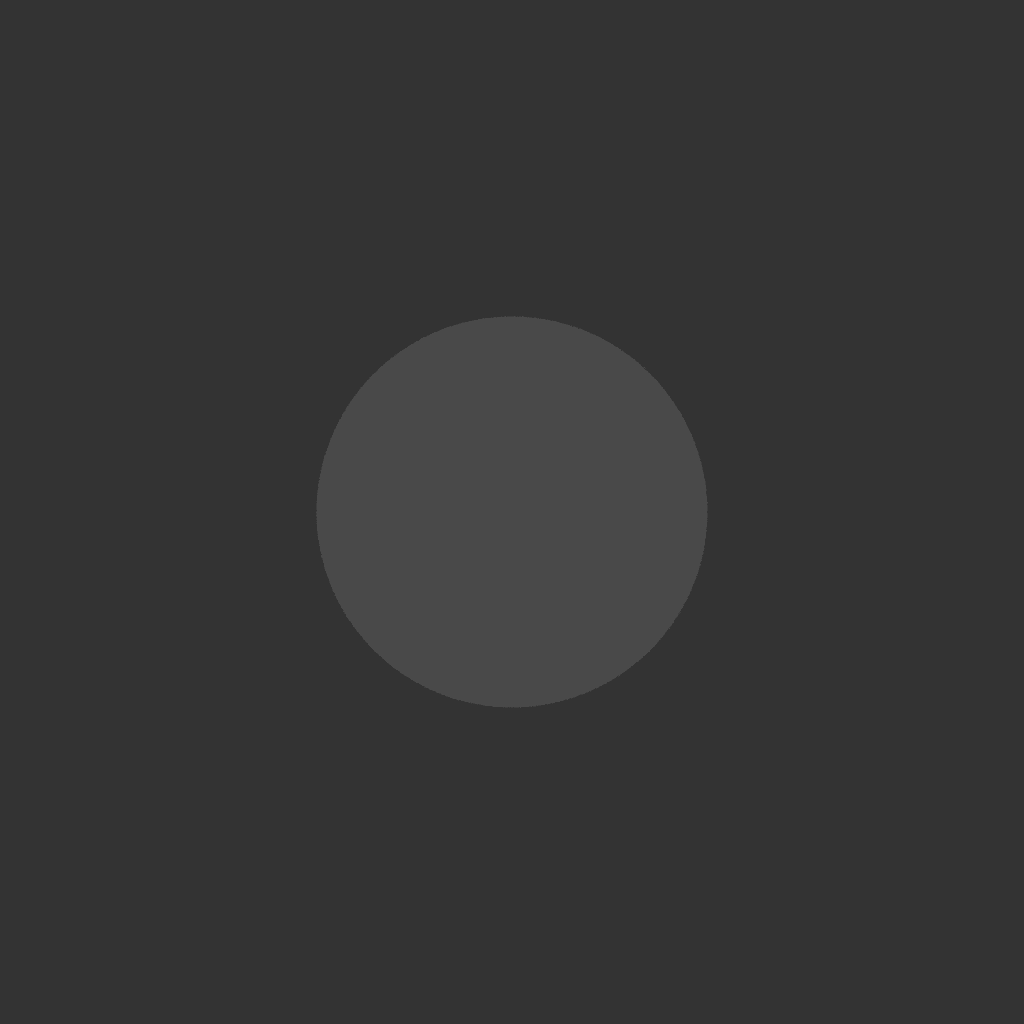
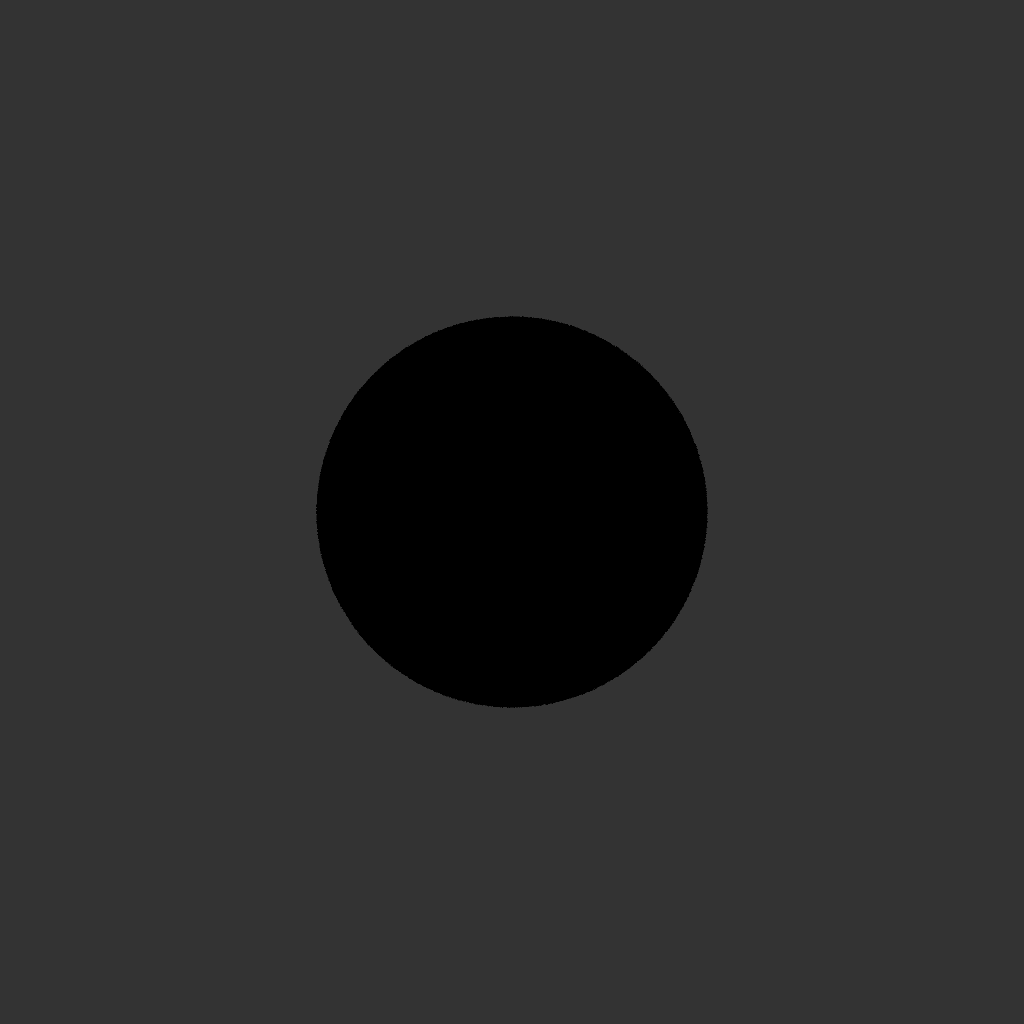
WIP, need tangent space

Changed region(s): [[0.3125, 0.3125, 0.6875, 0.6875]]

diff --git a/src/integrator.rs b/src/integrator.rs
@@ -18,7 +18,7 @@ impl Integrator for PathTracingIntegrator {
     fn color(&self, r: Ray) -> RGBColor {
         let mut ray = r;
         let mut color: RGBColor = RGBColor::ZERO;
-        let mut beta = Vec3::new(1.0, 1.0, 1.0);
+        let mut beta = RGBColor::new(1.0, 1.0, 1.0);
         for _ in 0..self.max_bounces {
             match (self.world.hit(ray, 0.0, INFINITY)) {
                 Some(hit) => {
@@ -35,9 +35,10 @@ impl Integrator for PathTracingIntegrator {
                     let cos_i = ray.direction.normalized() * hit.normal.normalized();
                     let material = &self.world.materials[id as usize];
                     let bounce = material.generate(Sample2D::new_random_sample(), ray.direction);
-                    let emission = material.emission(ray.direction, bounce);
+                    let emission: RGBColor = material.emission(ray.direction, bounce);
                     let pdf = material.value(ray.direction, bounce);
-                    color += beta * (emission + material.f(ray.direction, bounce));
+                    color += beta * emission;
+                    beta *= material.f(ray.direction, bounce) * cos_i / pdf;
                     ray = Ray::new(hit.point, bounce);
                 }
                 None => {

diff --git a/src/math/color.rs b/src/math/color.rs
@@ -52,3 +52,24 @@ impl DivAssign<f32> for RGBColor {
     }
 }
 
+impl Mul for RGBColor {
+    type Output = RGBColor;
+    fn mul(self, other: RGBColor) -> RGBColor {
+        RGBColor::new(self.r * other.r, self.g * other.g, self.b * other.b)
+    }
+}
+
+impl MulAssign for RGBColor {
+    fn mul_assign(&mut self, other: RGBColor) {
+        self.r *= other.r;
+        self.g *= other.g;
+        self.b *= other.b;
+    }
+}
+
+impl Mul<f32> for RGBColor {
+    type Output = RGBColor;
+    fn mul(self, other: f32) -> RGBColor {
+        RGBColor::new(self.r * other, self.g * other, self.b * other)
+    }
+}

diff --git a/src/math/vec.rs b/src/math/vec.rs
@@ -25,6 +25,14 @@ impl Mul for Vec3 {
     }
 }
 
+impl MulAssign for Vec3 {
+    fn mul_assign(&mut self, other: Vec3) {
+        self.x *= other.x;
+        self.y *= other.y;
+        self.z *= other.z;
+    }
+}
+
 impl Mul<f32> for Vec3 {
     type Output = Vec3;
     fn mul(self, other: f32) -> Vec3 {

diff --git a/src/math/mod.rs b/src/math/mod.rs
@@ -38,6 +38,13 @@ impl Mul<RGBColor> for Vec3 {
         RGBColor::new(self.x, self.y, self.z)
     }
 }
+
+impl From<RGBColor> for Vec3 {
+    fn from(c: RGBColor) -> Vec3 {
+        Vec3::new(c.r, c.g, c.b)
+    }
+}
+
 #[derive(Copy, Clone)]
 pub struct Ray {
     pub origin: Point3,

diff --git a/src/materials/lambertian.rs b/src/materials/lambertian.rs
@@ -13,7 +13,7 @@ impl Lambertian {
 
 impl PDF for Lambertian {
     fn value(&self, wi: Vec3, wo: Vec3) -> f32 {
-        1.0 / PI
+        wi * Vec3::Z / PI
     }
     fn generate(&self, s: Sample2D, wi: Vec3) -> Vec3 {
         random_cosine_direction(s)
